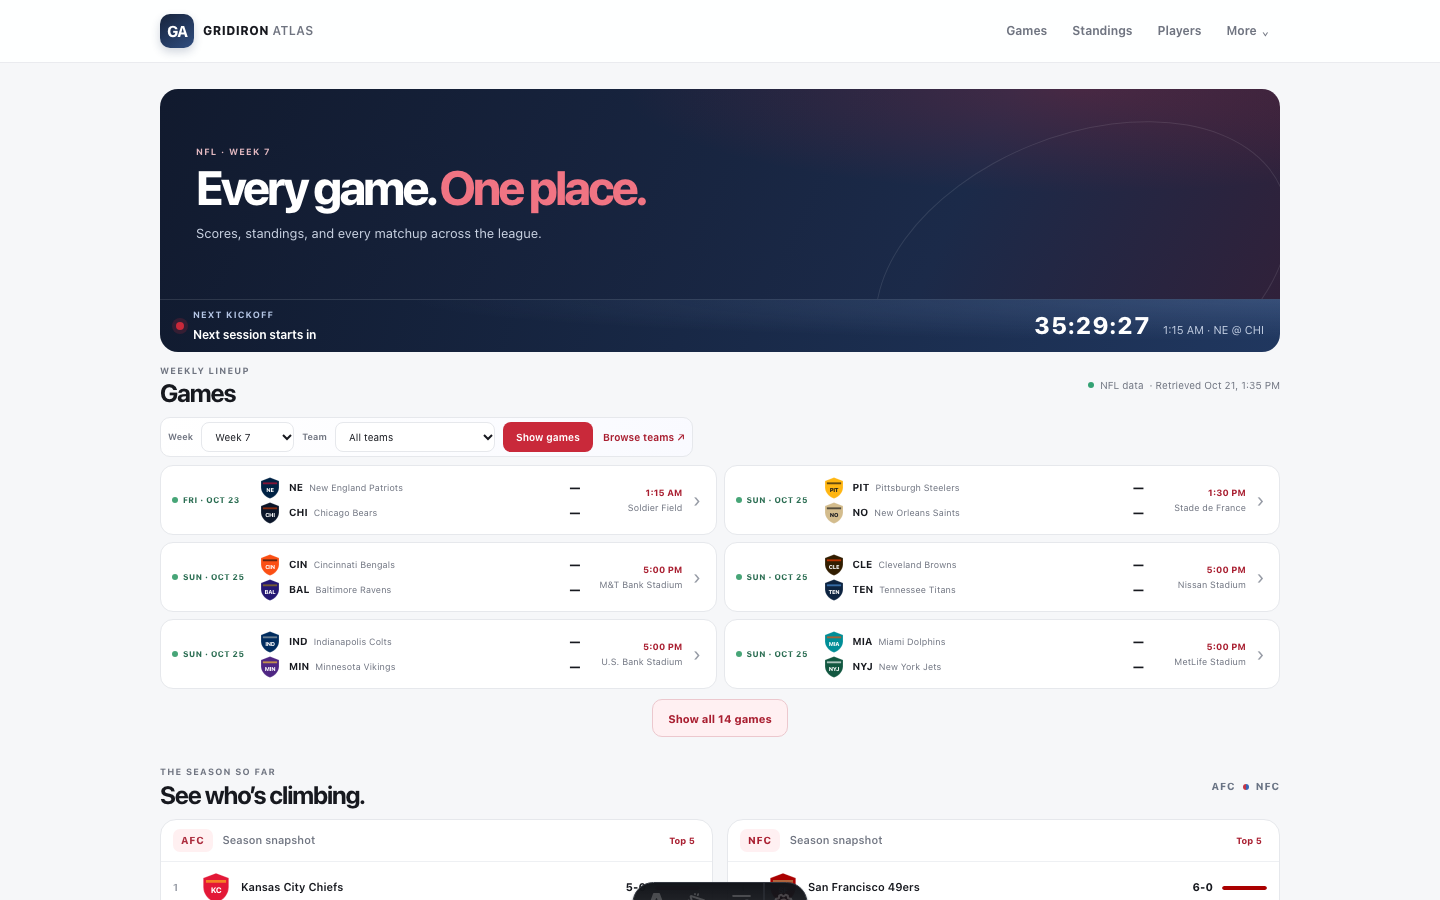
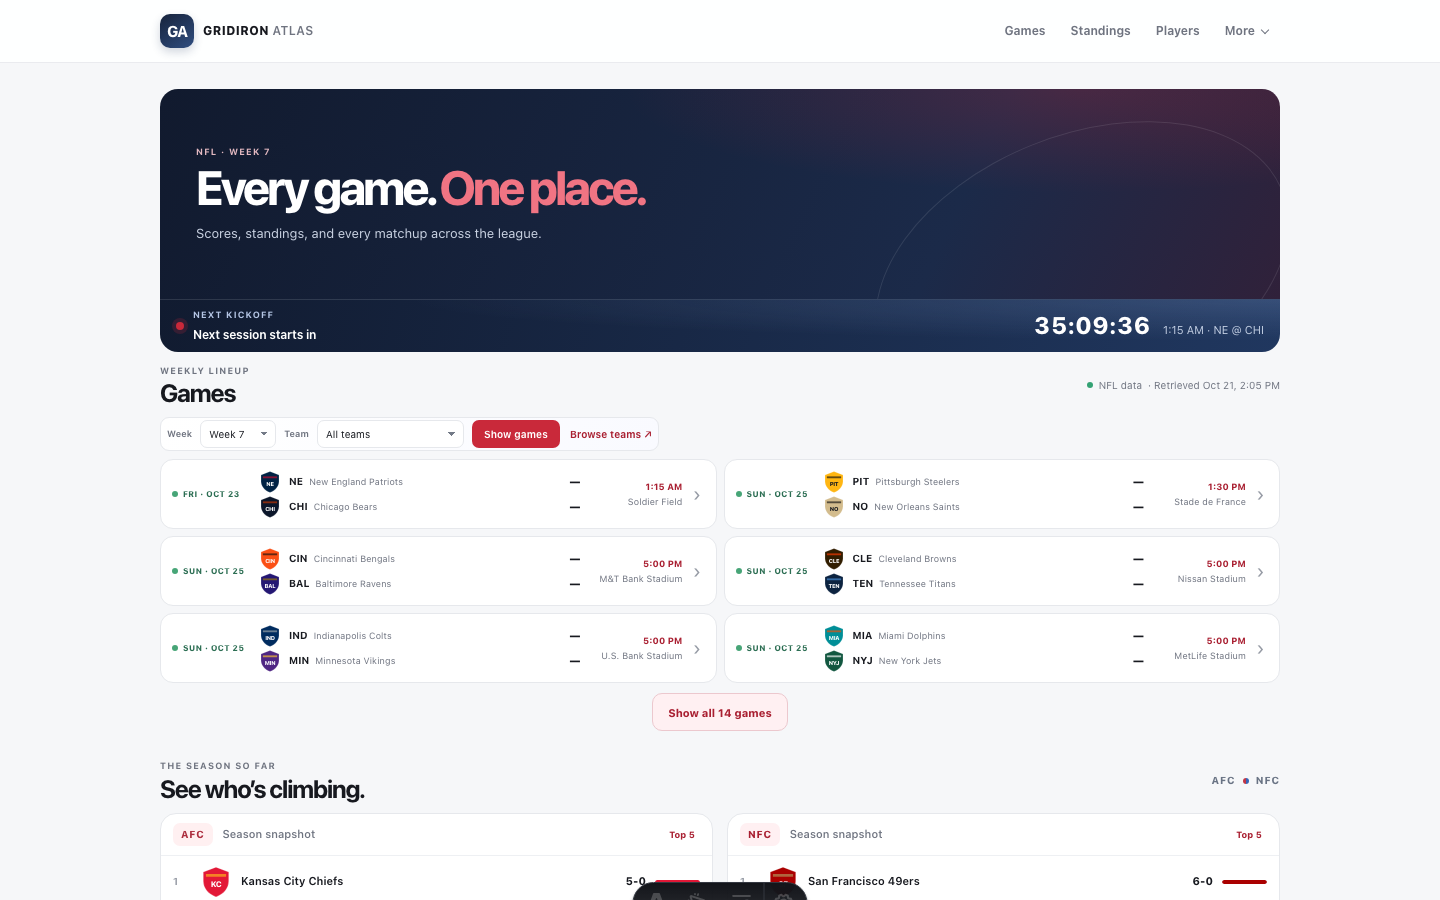
fix: polish navigation and filter alignment

diff --git a/tests/example.spec.ts b/tests/example.spec.ts
@@ -769,6 +769,21 @@ test('compact app fits target viewports without horizontal overflow', async ({ p
 	await page.setViewportSize({ width: 390, height: 844 });
 	await page.goto('/');
 	await expect(page.getByRole('navigation', { name: 'App navigation' })).toBeVisible();
+	const mobileMoreAlignment = await page.locator('.mobile-more summary').evaluate((summary) => {
+		const label = summary.firstChild instanceof Text ? summary : null;
+		const chevron = summary.querySelector('.menu-chevron')?.getBoundingClientRect();
+		const bounds = summary.getBoundingClientRect();
+		return { hasText: Boolean(label?.textContent?.trim()), chevronCenter: chevron ? chevron.top + chevron.height / 2 : 0, controlCenter: bounds.top + bounds.height / 2 };
+	});
+	expect(mobileMoreAlignment.hasText).toBe(true);
+	expect(Math.abs(mobileMoreAlignment.chevronCenter - mobileMoreAlignment.controlCenter)).toBeLessThan(2);
+	const teamFilterAlignment = await page.locator('[data-team-filter-open]').evaluate((button) => {
+		const label = button.querySelector('span:first-child')!.getBoundingClientRect();
+		const chevron = button.querySelector('.control-chevron')!.getBoundingClientRect();
+		return { labelCenter: label.top + label.height / 2, chevronCenter: chevron.top + chevron.height / 2, height: button.getBoundingClientRect().height };
+	});
+	expect(Math.abs(teamFilterAlignment.labelCenter - teamFilterAlignment.chevronCenter)).toBeLessThan(2);
+	expect(teamFilterAlignment.height).toBeLessThanOrEqual(28);
 	const appNavStyle = await page.locator('.mobile-nav').evaluate((element) => {
 		const bounds = element.getBoundingClientRect();
 		const style = getComputedStyle(element);
